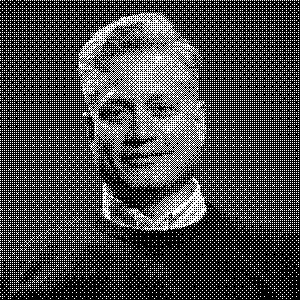
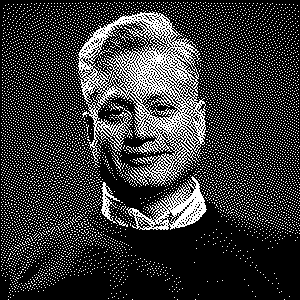
feat: switch headshot to Atkinson dithering, keep Bayer as alternate

diff --git a/darce.github.io--next-js-pages-router/scripts/dither-headshot.js b/darce.github.io--next-js-pages-router/scripts/dither-headshot.js
@@ -4,42 +4,63 @@ const path = require('path')
 const INPUT = path.join(__dirname, '..', 'public', 'images', 'headshot-6-300.jpg')
 const OUTPUT = path.join(__dirname, '..', 'public', 'images', 'headshot-6-300-dithered.png')
 
-// 8x8 Bayer threshold matrix (normalized to 0-255)
-const BAYER_8x8 = [
-    [ 0, 128,  32, 160,   8, 136,  40, 168],
-    [192,  64, 224,  96, 200,  72, 232, 104],
-    [ 48, 176,  16, 144,  56, 184,  24, 152],
-    [240, 112, 208,  80, 248, 120, 216,  88],
-    [ 12, 140,  44, 172,   4, 132,  36, 164],
-    [204,  76, 236, 108, 196,  68, 228, 100],
-    [ 60, 188,  28, 156,  52, 180,  20, 148],
-    [252, 124, 220,  92, 244, 116, 212,  84],
-]
-
-async function bayerDither() {
-    const image = sharp(INPUT).grayscale()
-    const { width, height } = await image.metadata()
-    const { data } = await image.raw().toBuffer({ resolveWithObject: true })
-
-    const out = Buffer.alloc(width * height)
+/**
+ * Atkinson dithering — distributes 6/8 of the quantization error to
+ * six neighboring pixels. The remaining 1/4 is discarded, which
+ * preserves more contrast than Floyd-Steinberg and produces the
+ * characteristic high-contrast look from the original Macintosh.
+ *
+ * Diffusion pattern (current pixel marked *):
+ *
+ *          *   1/8  1/8
+ *    1/8  1/8  1/8
+ *         1/8
+ */
+function atkinsonDither(pixels, width, height) {
+    const buf = Float64Array.from(pixels)
 
     for (let y = 0; y < height; y++) {
         for (let x = 0; x < width; x++) {
             const i = y * width + x
-            const gray = data[i]
-            const threshold = BAYER_8x8[y % 8][x % 8]
-            out[i] = gray > threshold ? 255 : 0
+            const old = buf[i]
+            const val = old > 128 ? 255 : 0
+            buf[i] = val
+            const err = (old - val) / 8
+
+            // Spread 6/8 of error to six neighbors
+            if (x + 1 < width)                          buf[i + 1]         += err
+            if (x + 2 < width)                          buf[i + 2]         += err
+            if (y + 1 < height) {
+                if (x - 1 >= 0)                         buf[i + width - 1] += err
+                                                        buf[i + width]     += err
+                if (x + 1 < width)                      buf[i + width + 1] += err
+            }
+            if (y + 2 < height)                         buf[i + 2 * width] += err
         }
     }
+
+    const out = Buffer.alloc(width * height)
+    for (let i = 0; i < buf.length; i++) {
+        out[i] = buf[i] > 128 ? 255 : 0
+    }
+    return out
+}
+
+async function run() {
+    const image = sharp(INPUT).grayscale()
+    const { width, height } = await image.metadata()
+    const { data } = await image.raw().toBuffer({ resolveWithObject: true })
+
+    const out = atkinsonDither(data, width, height)
 
     await sharp(out, { raw: { width, height, channels: 1 } })
         .png()
         .toFile(OUTPUT)
 
-    console.log(`Dithered headshot written to ${OUTPUT} (${width}x${height})`)
+    console.log(`Atkinson-dithered headshot written to ${OUTPUT} (${width}x${height})`)
 }
 
-bayerDither().catch(err => {
+run().catch(err => {
     console.error(err)
     process.exit(1)
 })
